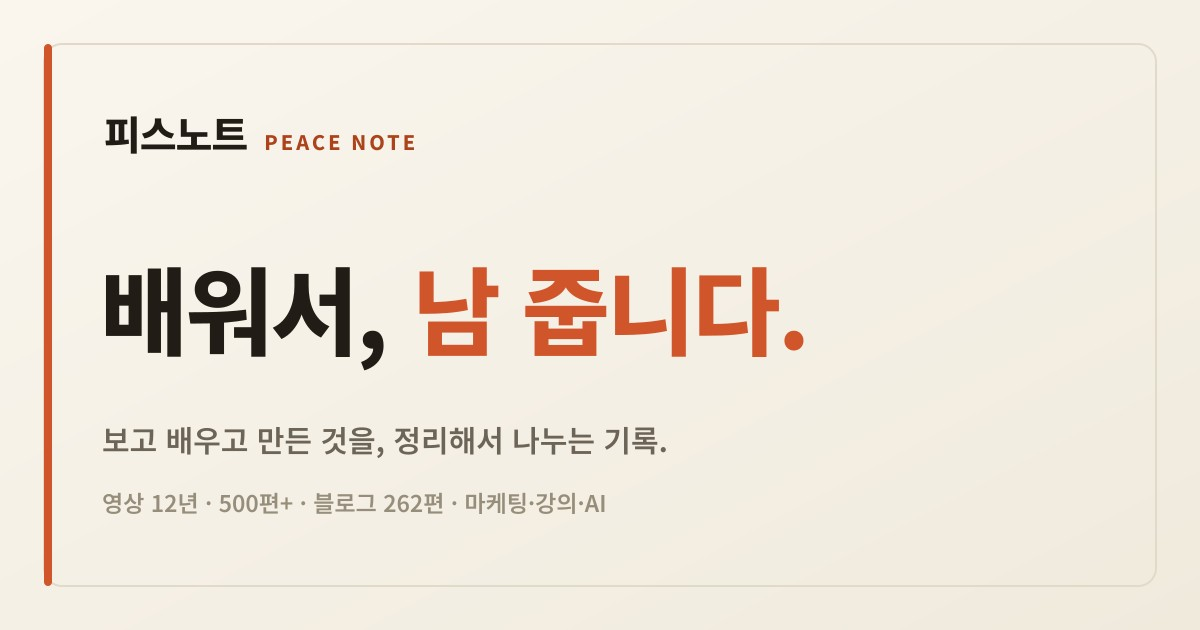
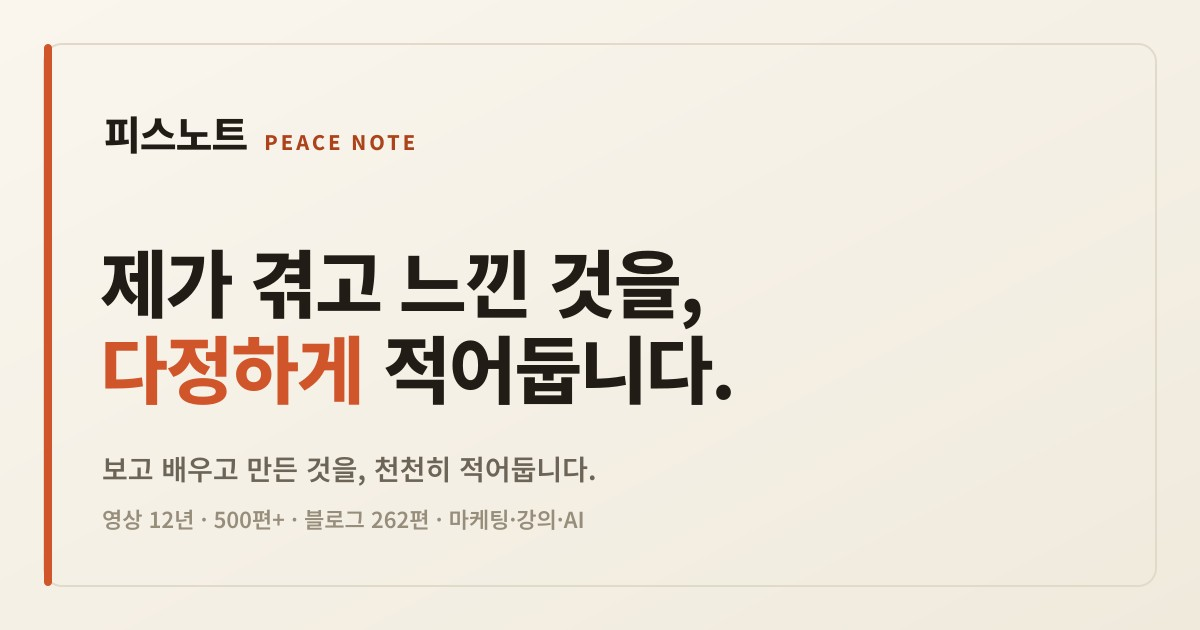
슬로건 교체 — "제가 겪고 느낀 것을, 다정하게 적어둡니다"
- "배워서 남 준다"(너무 가벼움) 폐기 → 소탈하지만 진지·진실·다정한 톤으로
- 전 페이지·푸터·소개·구독·OG 반영 (본인 원문 글은 그대로 보존)

Changed region(s): [[0.0617, 0.3921, 0.6783, 0.8444]]

diff --git a/src/lib/site.ts b/src/lib/site.ts
@@ -2,10 +2,10 @@
 export const SITE = {
   title: '피스노트',
   titleEn: 'Peace Note',
-  slogan: '배워서, 남 줍니다.',
-  subtitle: '보고 배우고 만든 것을, 정리해서 나누는 기록.',
+  slogan: '제가 겪고 느낀 것을, 다정하게 적어둡니다.',
+  subtitle: '보고 배우고 만든 것을, 천천히 적어둡니다.',
   description:
-    '영상·마케팅·콘텐츠·AI를 넘나드는 제네럴리스트 조피스(조재빈)의 공개 기록장. 12년간 500편 넘는 영상을 만들고, 블로그에 262편을 연재하고, 소상공인 마케팅을 무료로 나눠온 사람. 보고 배운 것을 정리해 남에게 주는, "배워서 남 주는" 기록.',
+    '영상·마케팅·콘텐츠·AI를 넘나들며 일해온 조피스(조재빈)의 공개 기록장. 12년간 500편 넘는 영상을 만들고, 블로그에 262편을 써왔습니다. 제가 겪고 배우고 느낀 것을, 화려하지 않아도 진심으로 오래 남기려는 기록입니다.',
   author: '조재빈',
   authorHandle: '조피스',
   // ⚠️ 배포 도메인이 정해지면 바꿔주세요 (astro.config.mjs 의 site 와 일치).

diff --git a/src/content/projects/peacenote-personal-branding.md b/src/content/projects/peacenote-personal-branding.md
@@ -1,6 +1,6 @@
 ---
 title: "개인 브랜딩 블로그 피스노트"
-oneliner: "배워서 남 주는 마음으로, 일과 생각을 공개로 정리해 나누는 블로그를 운영합니다."
+oneliner: "제가 겪고 배운 것을 진심으로 적어두는, 공개 기록 블로그를 운영합니다."
 status: active
 topic: content
 period: "2024~"